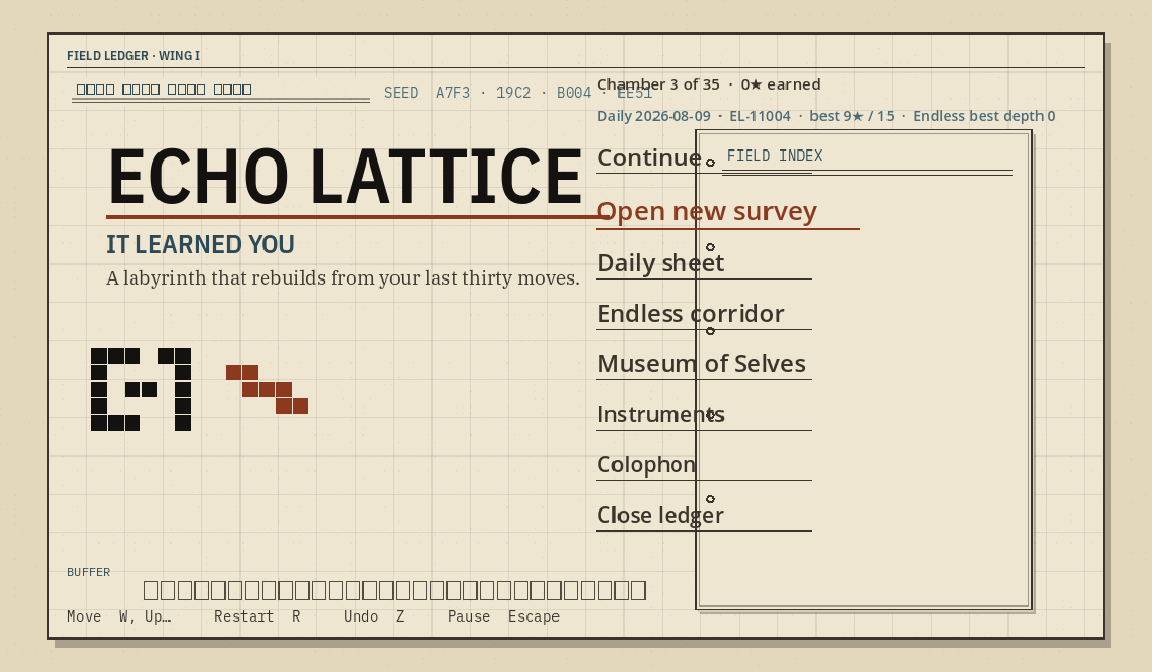
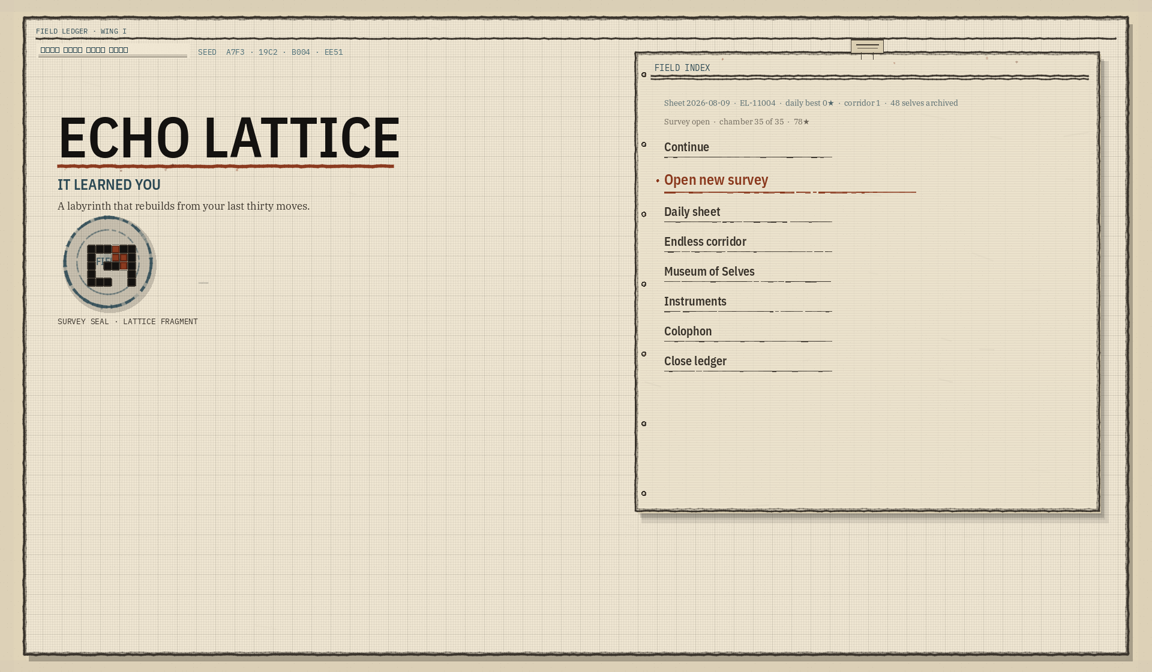
fix(menu): keep chamber HUD off the title stage
_clear_stage now remove_child before queue_free so TopBar/BottomBar cannot
linger under show_menu. Lock the invariant with test_title_menu_no_hud.py,
retarget the stale a11y footer assertion to InputGlyphs, and refresh the
trailer title frame that still showed punch-card / Move chrome.

Changed region(s): [[0.0, 0.0, 1.0, 1.0], [0.0625, 0.8438, 0.0938, 0.875]]

diff --git a/game/echo_lattice/tests/test_title_menu_no_hud.py b/game/echo_lattice/tests/test_title_menu_no_hud.py
@@ -1,0 +1,197 @@
+#!/usr/bin/env python3
+"""Regression: title stage must not instance or draw chamber HUD.
+
+BUFFER / SAVED / Moves / Restart / Move-footer chrome belongs on chamber.tscn
+(and Pause Index). The Field Ledger title shell mounts Menu only.
+"""
+
+from __future__ import annotations
+
+import re
+import sys
+import unittest
+from pathlib import Path
+
+ROOT = Path(__file__).resolve().parents[1]
+
+MENU_GD = ROOT / "scripts" / "menu.gd"
+MENU_TSCN = ROOT / "scenes" / "menu.tscn"
+MAIN_GD = ROOT / "scripts" / "main.gd"
+CHAMBER_TSCN = ROOT / "scenes" / "chamber.tscn"
+BOOT_GD = ROOT / "scripts" / "boot_title.gd"
+
+# Chamber HUD tells that must never appear on the title shell.
+HUD_STRINGS = (
+    "BUFFER",
+    "SAVED",
+    "Moves:",
+    "Restart (R)",
+    "Move  WASD",
+)
+
+HUD_NODE_NAMES = (
+    "BufferLabel",
+    "PunchcardCells",
+    "MovesLabel",
+    "RestartButton",
+    "HabitLabel",
+    "TopBar",
+    "BottomBar",
+    "UndoHint",
+)
+
+MENU_HUD_DRAW_APIS = (
+    "_draw_punchcard_ribbon",
+    "_footer_controls_hint",
+    '_controls_hint(',
+    'tr("menu.buffer")',
+    'tr("menu.controls_hint")',
+    'tr("menu.controls_hint_remap")',
+    'tr("hud.moves")',
+    'tr("hud.restart")',
+    'tr("hud.restart_fmt")',
+    "punchcard_cell_empty",
+    "punchcard_cell_filled",
+    "InputGlyphs.controls_line",
+)
+
+
+class TestTitleMenuSceneHasNoHudNodes(unittest.TestCase):
+    def test_menu_tscn_has_no_chamber_hud_nodes(self) -> None:
+        tscn = MENU_TSCN.read_text(encoding="utf-8")
+        for name in HUD_NODE_NAMES:
+            self.assertNotIn(
+                f'name="{name}"',
+                tscn,
+                msg=f"menu.tscn must not declare chamber HUD node {name}",
+            )
+        for needle in HUD_STRINGS:
+            self.assertNotIn(needle, tscn)
+
+    def test_chamber_still_owns_hud(self) -> None:
+        ## Guard against "fix" that deletes HUD from the game entirely.
+        tscn = CHAMBER_TSCN.read_text(encoding="utf-8")
+        for name in ("BufferLabel", "PunchcardCells", "MovesLabel", "RestartButton"):
+            self.assertIn(f'name="{name}"', tscn)
+
+
+class TestTitleMenuScriptDrawsNoHud(unittest.TestCase):
+    def test_menu_gd_has_no_chamber_hud_draw(self) -> None:
+        menu = MENU_GD.read_text(encoding="utf-8")
+        for api in MENU_HUD_DRAW_APIS:
+            self.assertNotIn(api, menu, msg=f"title menu must not call/draw {api}")
+        # Strip comments so explanatory notes cannot false-fail the string ban.
+        code = "\n".join(
+            ln for ln in menu.splitlines() if not ln.lstrip().startswith("#")
+        )
+        for needle in ("BUFFER", "SAVED", "Moves:", "Restart (R)"):
+            self.assertNotIn(needle, code)
+
+    def test_boot_title_has_no_chamber_hud(self) -> None:
+        boot = BOOT_GD.read_text(encoding="utf-8")
+        for api in MENU_HUD_DRAW_APIS:
+            self.assertNotIn(api, boot)
+        for name in HUD_NODE_NAMES:
+            self.assertNotIn(name, boot)
+
+
+class TestTitleStageDoesNotInstanceChamberHud(unittest.TestCase):
+    def test_show_menu_only_instances_menu_scene(self) -> None:
+        main = MAIN_GD.read_text(encoding="utf-8")
+        # Extract show_menu body up to the next top-level func.
+        m = re.search(
+            r"func show_menu\(\) -> void:\n(?P<body>(?:^\t.*\n)+)",
+            main,
+            flags=re.MULTILINE,
+        )
+        self.assertIsNotNone(m, msg="show_menu() missing in main.gd")
+        body = m.group("body")
+        self.assertIn("MENU_SCENE.instantiate()", body)
+        self.assertNotIn("CHAMBER_SCENE.instantiate()", body)
+        self.assertNotIn('load("res://scenes/chamber.tscn")', body)
+        self.assertIn("_clear_stage()", body)
+
+    def test_clear_stage_detaches_before_free(self) -> None:
+        ## Deferred free without remove_child leaves HUD parented until idle.
+        main = MAIN_GD.read_text(encoding="utf-8")
+        m = re.search(
+            r"func _clear_stage\(\) -> void:\n(?P<body>(?:^\t.*\n)+)",
+            main,
+            flags=re.MULTILINE,
+        )
+        self.assertIsNotNone(m, msg="_clear_stage() missing in main.gd")
+        body = m.group("body")
+        # Ignore comments — only the executable loop order matters.
+        code = "\n".join(
+            ln for ln in body.splitlines() if not ln.lstrip().startswith("#")
+        )
+        self.assertIn("remove_child", code)
+        self.assertIn("queue_free", code)
+        loop = re.search(
+            r"for c in kids:\n(?P<loop>(?:^\t\t.*\n)+)",
+            code + ("\n" if not code.endswith("\n") else ""),
+            flags=re.MULTILINE,
+        )
+        self.assertIsNotNone(loop, msg="_clear_stage loop over kids missing")
+        loop_body = loop.group("loop")
+        self.assertLess(
+            loop_body.find("remove_child"),
+            loop_body.find("queue_free"),
+            msg="remove_child must run before queue_free inside the kids loop",
+        )
+
+    def test_boot_handoff_mounts_menu_not_chamber(self) -> None:
+        main = MAIN_GD.read_text(encoding="utf-8")
+        m = re.search(
+            r"func _show_boot_title_if_needed\(\) -> bool:\n(?P<body>(?:^\t.*\n)+)",
+            main,
+            flags=re.MULTILINE,
+        )
+        self.assertIsNotNone(m)
+        body = m.group("body")
+        self.assertIn("MENU_SCENE.instantiate()", body)
+        self.assertNotIn("CHAMBER_SCENE.instantiate()", body)
+
+
+class TestTitleMenuScreenshotHasNoBufferRibbon(unittest.TestCase):
+    def test_release_brand_menu_has_no_punchcard_ribbon(self) -> None:
+        """Pixel gate on the store slate — no 30-cell punch-card strip at the foot.
+
+        Matches the Field Index juice gate: 30× ~12px cells on a 14px pitch
+        near the page foot (y 990–1040 at 1080p).
+        """
+        try:
+            from PIL import Image
+        except ImportError:
+            self.skipTest("Pillow not installed")
+        path = ROOT.parents[1] / "docs" / "RELEASE" / "screenshots" / "02_brand_main_menu.png"
+        if not path.is_file():
+            self.skipTest("release brand menu screenshot missing")
+        im = Image.open(path).convert("L")
+        w, h = im.size
+        self.assertEqual((w, h), (1920, 1080))
+
+        def lum(x: int, y: int) -> int:
+            return int(im.getpixel((x, y)))
+
+        ribbon = 0
+        for y in range(990, 1040, 2):
+            cells = 0
+            x = 100
+            while x < 520:
+                if lum(x, y) < 100 and lum(x + 6, y) < 100:
+                    cells += 1
+                x += 14
+            if cells >= 12:
+                ribbon += 1
+        self.assertEqual(ribbon, 0, msg="punch-card ribbon still on title menu slate")
+
+
+def main() -> int:
+    suite = unittest.defaultTestLoader.loadTestsFromModule(sys.modules[__name__])
+    result = unittest.TextTestRunner(verbosity=2).run(suite)
+    return 0 if result.wasSuccessful() else 1
+
+
+if __name__ == "__main__":
+    raise SystemExit(main())

diff --git a/game/echo_lattice/tests/test_a11y_settings.py b/game/echo_lattice/tests/test_a11y_settings.py
@@ -175,11 +175,15 @@ class TestSourceSurface(unittest.TestCase):
         self.assertIn('tr("glyphs.controls_keyboard")', src)
         self.assertIn('tr("hud.restart_fmt")', src)
 
-    def test_menu_footer_uses_gamepad_not_last_device_ge_zero(self) -> None:
+    def test_glyph_path_uses_gamepad_not_last_device_ge_zero(self) -> None:
+        ## Controls footer lives on chamber / InputGlyphs — not the title menu.
+        glyphs = (ROOT / "scripts" / "input_glyphs.gd").read_text()
+        self.assertIn("using_gamepad()", glyphs)
+        self.assertNotIn("last_device >= 0", glyphs)
+        self.assertIn('tr("glyphs.controls_keyboard")', glyphs)
         menu = (ROOT / "scripts" / "menu.gd").read_text()
-        self.assertIn("using_gamepad()", menu)
-        self.assertNotIn("last_device >= 0", menu)
-        self.assertIn('tr("menu.controls_hint_remap")', menu)
+        self.assertNotIn('tr("menu.controls_hint_remap")', menu)
+        self.assertNotIn("_footer_controls_hint", menu)
 
     def test_cjk_fetch_script_and_ofl(self) -> None:
         script = REPO / "tools" / "fonts" / "fetch_noto_sans_sc.py"
